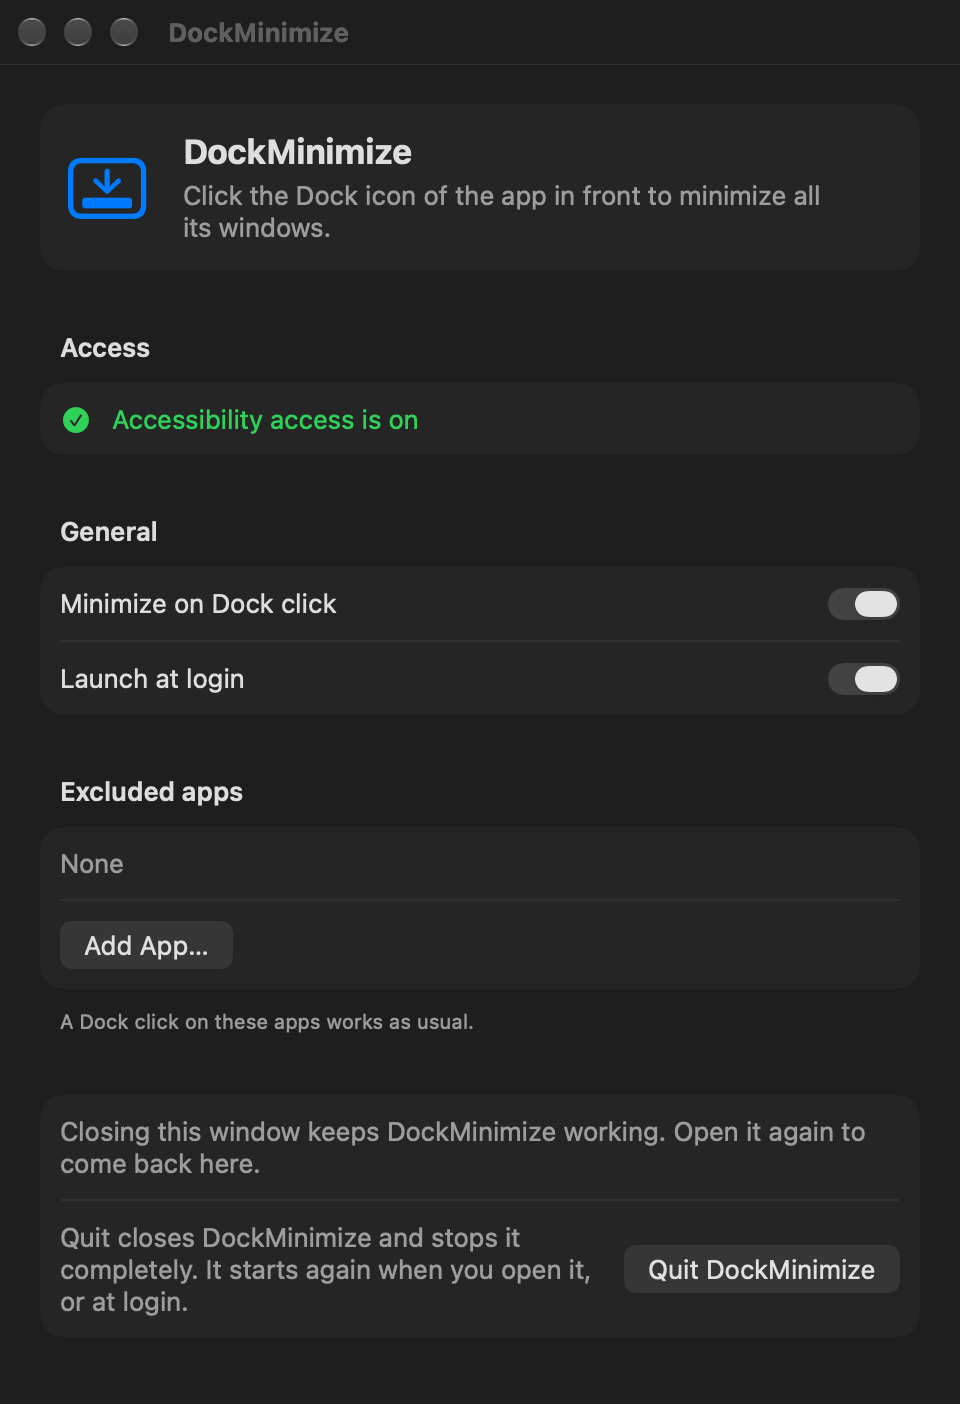
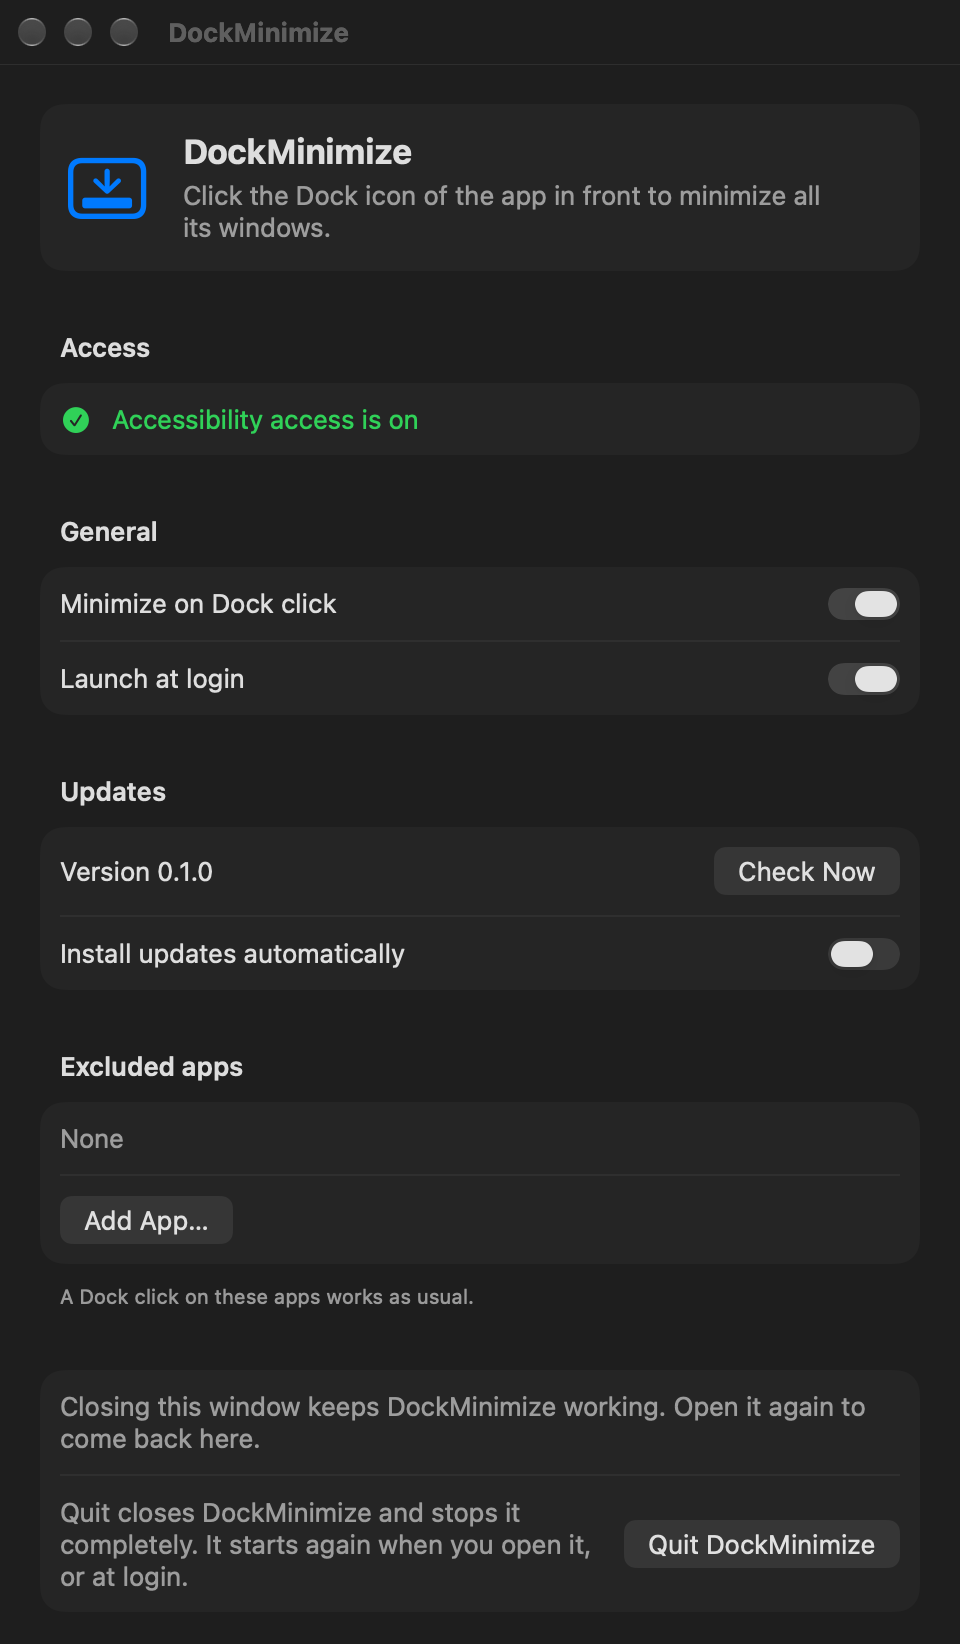
Update checker and installer; README download button
DockMinimize checks GitHub's latest release once a day. A newer version
shows in the window with an Install button and one notification, or
installs by itself when "Install updates automatically" is on. The
installer only accepts an app that meets the running app's designated
requirement (same bundle ID and certificate), swaps it in place, and
relaunches quietly.

Releases now ship DockMinimize.dmg with no version in the name, so the
README's new "Download for macOS" button can link to the latest one.
The README also says up front that this is a macOS app, and documents
updates and the only network use.

diff --git a/Sources/DockMinimize/Updater.swift b/Sources/DockMinimize/Updater.swift
@@ -1,0 +1,230 @@
+import AppKit
+import Security
+import UserNotifications
+import os
+
+private let log = Logger(subsystem: "io.github.sameercrestha.dockminimize", category: "update")
+
+/// Checks GitHub once a day for a newer release, and installs it in place.
+/// The new app must be signed like the running one, so a tampered download is refused.
+final class Updater: NSObject, ObservableObject, UNUserNotificationCenterDelegate {
+    static let shared = Updater()
+    private static let latestRelease = URL(string: "https://api.github.com/repos/SameerCrestha/dock-minimize/releases/latest")!
+
+    enum Status: Equatable {
+        case idle
+        case checking
+        case upToDate
+        case available(version: String)
+        case installing
+        case failed(String)
+    }
+
+    @Published private(set) var status = Status.idle
+    @Published var installsAutomatically: Bool {
+        didSet { UserDefaults.standard.set(installsAutomatically, forKey: "installUpdatesAutomatically") }
+    }
+
+    /// Called when the update notification is clicked.
+    var onNotificationClick: (() -> Void)?
+
+    let currentVersion = Bundle.main.object(forInfoDictionaryKey: "CFBundleShortVersionString") as? String ?? "0"
+    private var downloadURL: URL?
+    private var timer: Timer?
+
+    private override init() {
+        installsAutomatically = UserDefaults.standard.bool(forKey: "installUpdatesAutomatically")
+        super.init()
+    }
+
+    func startDailyChecks() {
+        UNUserNotificationCenter.current().delegate = self
+        check()
+        timer = Timer.scheduledTimer(withTimeInterval: 24 * 60 * 60, repeats: true) { [weak self] _ in self?.check() }
+    }
+
+    /// `manual` is the Check Now button: then errors are shown instead of ignored.
+    func check(manual: Bool = false) {
+        guard status != .checking, status != .installing else { return }
+        status = .checking
+        var request = URLRequest(url: Self.latestRelease)
+        request.setValue("application/vnd.github+json", forHTTPHeaderField: "Accept")
+        URLSession.shared.dataTask(with: request) { data, _, _ in
+            let release = data.flatMap { try? JSONDecoder().decode(Release.self, from: $0) }
+            DispatchQueue.main.async { self.handle(release, manual: manual) }
+        }.resume()
+    }
+
+    private func handle(_ release: Release?, manual: Bool) {
+        guard let release else {
+            status = manual ? .failed("Could not reach GitHub to check for updates.") : .idle
+            return
+        }
+        guard Self.isNewer(release.version, than: currentVersion),
+              let dmg = release.assets.first(where: { $0.name.hasSuffix(".dmg") })
+        else {
+            status = .upToDate
+            return
+        }
+        downloadURL = dmg.browserDownloadURL
+        status = .available(version: release.version)
+        log.notice("version \(release.version, privacy: .public) is available")
+        if installsAutomatically {
+            install()
+        } else if !manual {
+            notify(release.version)
+        }
+    }
+
+    func install() {
+        guard let downloadURL, status != .installing else { return }
+        status = .installing
+        URLSession.shared.downloadTask(with: downloadURL) { file, _, _ in
+            // The downloaded file is deleted when this handler returns, so install right here.
+            var failure: String?
+            if let file {
+                do {
+                    try Self.installApp(fromDMG: file)
+                } catch {
+                    failure = error.localizedDescription
+                }
+            } else {
+                failure = "The download failed."
+            }
+            DispatchQueue.main.async {
+                if let failure {
+                    log.error("update failed: \(failure, privacy: .public)")
+                    self.status = .failed(failure)
+                } else {
+                    Self.relaunch()
+                }
+            }
+        }.resume()
+    }
+
+    // MARK: Notification
+
+    private func notify(_ version: String) {
+        let defaults = UserDefaults.standard
+        guard defaults.string(forKey: "notifiedVersion") != version else { return }
+        let center = UNUserNotificationCenter.current()
+        center.requestAuthorization(options: [.alert]) { granted, _ in
+            guard granted else { return }
+            defaults.set(version, forKey: "notifiedVersion")
+            let content = UNMutableNotificationContent()
+            content.title = "DockMinimize \(version) is available"
+            content.body = "Open DockMinimize to install it."
+            center.add(UNNotificationRequest(identifier: "update", content: content, trigger: nil))
+        }
+    }
+
+    func userNotificationCenter(
+        _ center: UNUserNotificationCenter,
+        didReceive response: UNNotificationResponse,
+        withCompletionHandler completionHandler: @escaping () -> Void
+    ) {
+        DispatchQueue.main.async { self.onNotificationClick?() }
+        completionHandler()
+    }
+
+    // MARK: Install
+
+    private static func installApp(fromDMG dmg: URL) throws {
+        let fileManager = FileManager.default
+        let mountPoint = fileManager.temporaryDirectory.appendingPathComponent("DockMinimize-update-\(UUID().uuidString)")
+        try fileManager.createDirectory(at: mountPoint, withIntermediateDirectories: true)
+        try run("/usr/bin/hdiutil", "attach", dmg.path, "-nobrowse", "-readonly", "-noautoopen", "-mountpoint", mountPoint.path)
+        defer {
+            try? run("/usr/bin/hdiutil", "detach", mountPoint.path, "-force")
+            try? fileManager.removeItem(at: mountPoint)
+        }
+
+        let newApp = mountPoint.appendingPathComponent("DockMinimize.app")
+        try verifySignature(of: newApp)
+
+        // Copy next to the current app first, so the swap stays on one disk.
+        let current = Bundle.main.bundleURL
+        let staged = current.deletingLastPathComponent().appendingPathComponent(".DockMinimize-update.app")
+        try? fileManager.removeItem(at: staged)
+        try fileManager.copyItem(at: newApp, to: staged)
+        _ = try fileManager.replaceItemAt(current, withItemAt: staged)
+    }
+
+    /// The update must meet the running app's designated requirement: same bundle ID, same certificate.
+    private static func verifySignature(of app: URL) throws {
+        var selfCode: SecCode?
+        var selfStatic: SecStaticCode?
+        var requirement: SecRequirement?
+        var newStatic: SecStaticCode?
+        guard SecCodeCopySelf([], &selfCode) == errSecSuccess, let selfCode,
+              SecCodeCopyStaticCode(selfCode, [], &selfStatic) == errSecSuccess, let selfStatic,
+              SecCodeCopyDesignatedRequirement(selfStatic, [], &requirement) == errSecSuccess, let requirement,
+              SecStaticCodeCreateWithPath(app as CFURL, [], &newStatic) == errSecSuccess, let newStatic,
+              SecStaticCodeCheckValidity(newStatic, SecCSFlags(rawValue: kSecCSCheckAllArchitectures), requirement) == errSecSuccess
+        else {
+            throw UpdateError("The update is not signed like this copy of DockMinimize, so it was not installed.")
+        }
+    }
+
+    /// Starts the new copy once this one has quit.
+    private static func relaunch() {
+        let script = "while kill -0 \(getpid()) 2>/dev/null; do sleep 0.2; done; /usr/bin/open \"$0\" --args --updated"
+        let process = Process()
+        process.executableURL = URL(fileURLWithPath: "/bin/sh")
+        process.arguments = ["-c", script, Bundle.main.bundleURL.path]
+        try? process.run()
+        AppDelegate.quitRequested = true
+        NSApp.terminate(nil)
+    }
+
+    private static func run(_ tool: String, _ arguments: String...) throws {
+        let process = Process()
+        process.executableURL = URL(fileURLWithPath: tool)
+        process.arguments = arguments
+        process.standardOutput = FileHandle.nullDevice
+        process.standardError = FileHandle.nullDevice
+        try process.run()
+        process.waitUntilExit()
+        guard process.terminationStatus == 0 else {
+            throw UpdateError("\(URL(fileURLWithPath: tool).lastPathComponent) failed while installing the update.")
+        }
+    }
+
+    static func isNewer(_ version: String, than current: String) -> Bool {
+        let new = version.split(separator: ".").map { Int($0) ?? 0 }
+        let old = current.split(separator: ".").map { Int($0) ?? 0 }
+        for i in 0 ..< max(new.count, old.count) {
+            let a = i < new.count ? new[i] : 0
+            let b = i < old.count ? old[i] : 0
+            if a != b { return a > b }
+        }
+        return false
+    }
+}
+
+private struct Release: Decodable {
+    struct Asset: Decodable {
+        let name: String
+        let browserDownloadURL: URL
+
+        enum CodingKeys: String, CodingKey {
+            case name
+            case browserDownloadURL = "browser_download_url"
+        }
+    }
+
+    let tagName: String
+    let assets: [Asset]
+
+    enum CodingKeys: String, CodingKey {
+        case tagName = "tag_name"
+        case assets
+    }
+
+    var version: String { tagName.hasPrefix("v") ? String(tagName.dropFirst()) : tagName }
+}
+
+private struct UpdateError: LocalizedError {
+    let errorDescription: String?
+    init(_ message: String) { errorDescription = message }
+}

diff --git a/Sources/DockMinimize/SettingsWindow.swift b/Sources/DockMinimize/SettingsWindow.swift
@@ -36,6 +36,7 @@ final class SettingsWindowController: NSObject, NSWindowDelegate {
 
 struct SettingsView: View {
     @ObservedObject var prefs: Preferences
+    @ObservedObject var updater: Updater = .shared
 
     var body: some View {
         Form {
@@ -85,6 +86,18 @@ struct SettingsView: View {
                 }
             }
 
+            Section("Updates") {
+                HStack {
+                    Text("Version \(updater.currentVersion)")
+                    Spacer()
+                    updateStatus
+                }
+                if case .failed(let message) = updater.status {
+                    Text(message).font(.caption).foregroundStyle(.red)
+                }
+                Toggle("Install updates automatically", isOn: $updater.installsAutomatically)
+            }
+
             Section {
                 if prefs.excludedBundleIDs.isEmpty {
                     Text("None").foregroundStyle(.secondary)
@@ -129,7 +142,29 @@ struct SettingsView: View {
             }
         }
         .formStyle(.grouped)
-        .frame(width: 480, height: 670)
+        .frame(width: 480, height: 790)
+    }
+
+    @ViewBuilder private var updateStatus: some View {
+        switch updater.status {
+        case .checking:
+            ProgressView().controlSize(.small)
+        case .available(let version):
+            Button("Install \(version)") { updater.install() }
+                .buttonStyle(.borderedProminent)
+        case .installing:
+            HStack {
+                ProgressView().controlSize(.small)
+                Text("Installing…").foregroundStyle(.secondary)
+            }
+        case .upToDate:
+            HStack {
+                Text("Up to date").foregroundStyle(.secondary)
+                Button("Check Now") { updater.check(manual: true) }
+            }
+        case .idle, .failed:
+            Button("Check Now") { updater.check(manual: true) }
+        }
     }
 
     private func addApps() {

diff --git a/Sources/DockMinimize/AppDelegate.swift b/Sources/DockMinimize/AppDelegate.swift
@@ -21,8 +21,13 @@ final class AppDelegate: NSObject, NSApplicationDelegate {
             waitForAccessibility()
         }
 
-        // At login it starts quietly. Any other launch shows the window, so whoever opened it sees it.
-        if !launchedAsLoginItem || !Preferences.shared.isTrusted {
+        Updater.shared.onNotificationClick = { [weak self] in self?.settingsWindow.show() }
+        Updater.shared.startDailyChecks()
+
+        // At login and after an update it starts quietly. Any other launch shows the window,
+        // so whoever opened it sees it.
+        let quietLaunch = launchedAsLoginItem || CommandLine.arguments.contains("--updated")
+        if !quietLaunch || !Preferences.shared.isTrusted {
             settingsWindow.show()
         }
     }

diff --git a/README.md b/README.md
@@ -1,8 +1,11 @@
 # DockMinimize
 
-Click the Dock icon of the app you are using, and its windows minimize. Like the taskbar on Windows.
+**A free macOS app: click the Dock icon of the app you are using, and its windows minimize.** Like the taskbar on Windows.
 
-Free, open source, and it does that one thing.
+<p align="center">
+  <a href="https://github.com/SameerCrestha/dock-minimize/releases/latest/download/DockMinimize.dmg"><img src="https://img.shields.io/badge/Download_for_macOS-0A84FF?style=for-the-badge&logo=apple&logoColor=white" alt="Download for macOS"></a>
+</p>
+<p align="center">macOS 13 or later · Apple Silicon and Intel · Free and open source</p>
 
 <p align="center">
   <picture>
@@ -20,7 +23,7 @@ The apps that add this either cost money, like Click2Minimize, or bundle it with
 So DockMinimize:
 
 - changes one click and leaves the rest of the Dock alone
-- has no menu bar icon, no account, no network access and no tracking
+- has no menu bar icon, no account and no tracking. Its only network use is a daily check for a new version.
 - is about 500 lines of Swift you can read in one sitting
 
 ## What it does
@@ -34,7 +37,7 @@ So DockMinimize:
 
 Needs macOS 13 or later, on Apple Silicon or Intel.
 
-1. Download `DockMinimize-<version>.dmg` from the [latest release](https://github.com/SameerCrestha/dock-minimize/releases/latest).
+1. Click **Download for macOS** at the top, or get `DockMinimize.dmg` from the [latest release](https://github.com/SameerCrestha/dock-minimize/releases/latest).
 2. Open it and drag **DockMinimize** to **Applications**.
 3. Open DockMinimize from Applications. The first time, macOS blocks it with "Apple could not verify…". This is because the app is not notarized, which needs a paid Apple developer account.
    - Click **Done**.
@@ -48,6 +51,7 @@ Needs macOS 13 or later, on Apple Silicon or Intel.
 - Open DockMinimize again (Launchpad, Spotlight or Applications) to see its window. From there you can:
   - check Accessibility access
   - turn it off, or stop it starting at login (on by default)
+  - check for updates
   - exclude apps
   - quit it
 - Closing the window, ⌘Q or Quit in the Dock only close the window. DockMinimize keeps working.
@@ -55,7 +59,11 @@ Needs macOS 13 or later, on Apple Silicon or Intel.
 
 ## Update
 
-Download the new `.dmg` and replace the app in Applications. Accessibility access stays on, because every release is signed with the same certificate.
+DockMinimize checks GitHub for a new version once a day. When one is out, you get a notification.
+
+- Open DockMinimize and click **Install**. It downloads the update, checks it is signed by the same developer, replaces itself and restarts. Accessibility access stays on.
+- Or switch on **Install updates automatically** and skip the click.
+- Or download the new `DockMinimize.dmg` yourself and replace the app in Applications.
 
 If the window says it needs access while the switch is already on, select DockMinimize in the Accessibility list, click **−**, then **+** to add it again.
 
@@ -68,7 +76,10 @@ If the window says it needs access while the switch is already on, select DockMi
 ## FAQ
 
 **Why does it need Accessibility access?**
-To see which Dock icon you clicked, and to minimize windows. It has no network code, so nothing leaves your Mac.
+To see which Dock icon you clicked, and to minimize windows. Nothing about your windows or clicks leaves your Mac.
+
+**Does it connect to the internet?**
+Only to check GitHub for a new version once a day, and to download an update when you install one.
 
 **Why does a second click bring back only one window?**
 That is what macOS does. DockMinimize only changes the click that minimizes, and leaves bringing windows back to the Dock.
